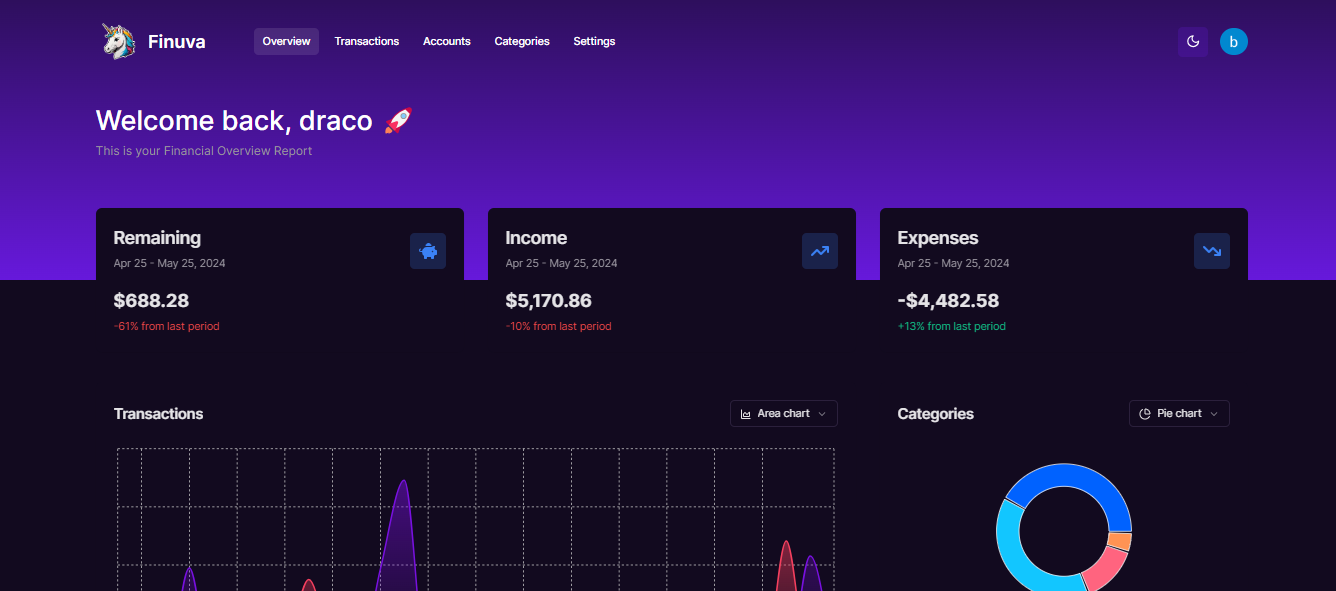
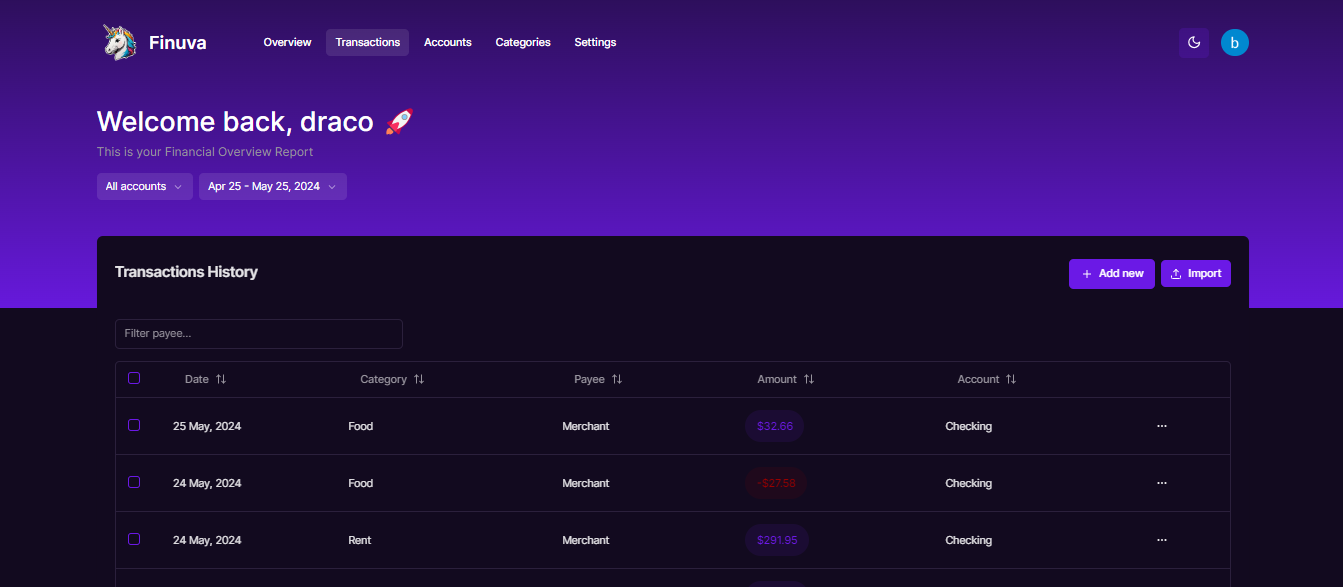
added filters

diff --git a/src/components/dashboard/date-filter.tsx b/src/components/dashboard/date-filter.tsx
@@ -1,0 +1,106 @@
+"use client"
+
+import qs from "query-string";
+import { useState } from "react";
+import { format, subDays } from "date-fns"
+import { DateRange } from "react-day-picker"
+import { Calendar as CalendarIcon, ChevronDown } from "lucide-react"
+import { usePathname, useRouter, useSearchParams } from "next/navigation";
+
+import { cn, formatDateRange } from "@/lib/utils"
+import { Button } from "@/components/ui/button"
+import { Calendar } from "@/components/ui/calendar"
+import { useGetSummary } from "@/features/summary/api/use-get-summary";
+import { Popover, PopoverContent, PopoverTrigger, PopoverClose } from "@/components/ui/popover";
+
+export const DateFilter = ({
+  className,
+}: React.HTMLAttributes<HTMLDivElement>) => {
+  const router = useRouter();
+  const pathname = usePathname();
+  const params = useSearchParams();
+  const { isLoading } = useGetSummary();
+
+  const defaultTo = new Date();
+  const defaultFrom = subDays(defaultTo, 30);
+
+  const from = params.get("from");
+  const to = params.get("to");
+
+  const paramState = {
+    from: from ? new Date(from) : defaultFrom,
+    to: to ? new Date(to) : defaultTo,
+  };
+
+  const [date, setDate] = useState<DateRange | undefined>(paramState);
+
+  // CHANGE URL PARAMS
+  const pushToUrl = (dateRange: DateRange | undefined) => {
+    const query = {
+      from: format(dateRange?.from || defaultFrom, "yyyy-MM-dd"),
+      to: format(dateRange?.to || defaultTo, "yyyy-MM-dd"),
+    };
+
+    const url = qs.stringifyUrl({
+      url: pathname,
+      query,
+    }, { skipNull: true });
+
+    router.push(url);
+  };
+
+  const onReset = () => {
+    setDate(undefined);
+    pushToUrl(undefined);
+  };
+
+  return (
+    <Popover>
+      <PopoverTrigger asChild>
+        <Button
+          disabled={isLoading}
+          size="sm"
+          variant="outline"
+          className={cn(
+            "w-full lg:w-auto justify-between font-normal bg-white/10 hover:bg-white/20 hover:text-white border-none focus-visible:ring-offset-0 focus-visible:ring-transparent outline-none text-white focus:bg-white/30 transition",
+          )}
+        >
+          <span>{formatDateRange(paramState)}</span>
+          <ChevronDown className="ml-2 size-4 opacity-50" />
+        </Button>
+      </PopoverTrigger>
+      <PopoverContent className="lg:w-auto w-full p-0" align="start">
+        <Calendar
+          disabled={isLoading}
+          initialFocus
+          mode="range"
+          defaultMonth={date?.from}
+          selected={date}
+          onSelect={setDate}
+          numberOfMonths={2}
+        />
+        <div className="p-4 w-full flex items-center gap-x-2">
+          <PopoverClose asChild>
+            <Button 
+              onClick={onReset} 
+              disabled={!date?.from || !date?.to} 
+              className="w-full"
+              variant="outline"
+            >
+              Reset
+            </Button>
+          </PopoverClose>
+          <PopoverClose asChild>
+            <Button
+              onClick={() => pushToUrl(date)} 
+              className="w-full"
+              disabled={!date?.from || !date?.to} 
+            >
+              Apply
+            </Button>
+          </PopoverClose>
+        </div>
+      </PopoverContent>
+    </Popover>
+  );
+};

diff --git a/src/components/dashboard/accunt-filter.tsx b/src/components/dashboard/accunt-filter.tsx
@@ -1,0 +1,57 @@
+"use client"
+
+import qs from "query-string";
+import { usePathname, useRouter, useSearchParams } from "next/navigation";
+
+import { useGetSummary } from "@/features/summary/api/use-get-summary";
+import { useGetAccounts } from "@/features/accounts/api/use-get-accounts";
+import { Select, SelectContent, SelectItem, SelectTrigger, SelectValue } from "@/components/ui/select";
+
+export const AccountFilter = ({ className }: React.HTMLAttributes<HTMLDivElement>) => {
+  const router = useRouter();
+  const pathname = usePathname();
+  const params = useSearchParams();
+  const { isLoading: isLoadingSummary } = useGetSummary();
+  const { data, isLoading: isLoadingAccounts } = useGetAccounts();
+
+  const accountId = params.get("accountId") || "all";
+  const from = params.get("from") || "";
+  const to = params.get("to") || "";
+
+  const onChange = (newValue: string) => {
+    const query = {
+      accountId: newValue,
+      from,
+      to,
+    };
+
+    if (newValue === "all") {
+      query.accountId = "";
+    }
+
+    const url = qs.stringifyUrl({
+      url: pathname,
+      query,
+    }, { skipNull: true, skipEmptyString: true });
+
+    router.push(url);
+  };
+
+  return (
+    <Select value={accountId} onValueChange={onChange} disabled={isLoadingAccounts || isLoadingSummary}>
+      <SelectTrigger className="lg:w-auto w-full h-9 rounded-md px-3 font-normal bg-white/10 hover:bg-white/20 hover:text-white border-none focus:ring-offset-0 focus:ring-transparent outline-none text-white focus:bg-white/30 transition">
+        <SelectValue placeholder="Account" />
+      </SelectTrigger>
+      <SelectContent>
+        <SelectItem value="all">
+          All accounts
+        </SelectItem>
+        {data?.map((account) => (
+          <SelectItem key={account.id} value={account.id}>
+            {account.name}
+          </SelectItem>
+        ))}
+      </SelectContent>
+    </Select>
+  );
+};

diff --git a/src/components/dashboard/data-charts.tsx b/src/components/dashboard/data-charts.tsx
@@ -1,7 +1,7 @@
 'use client'
 
 import { useGetSummary } from "@/features/summary/api/use-get-summary"
-import Chart from "./chart"
+import Chart, { ChartLoading } from "./chart"
 import { SpendingPie, SpendingPieLoading } from "./spending-pie"
 
 const DataCharts = () => {
@@ -10,7 +10,14 @@ const DataCharts = () => {
 
     if (isLoading) {
         return (
-            <SpendingPieLoading/>
+          <div className="grid grid-cols-1 lg:grid-cols-6 gap-8">
+           <div className="col-span-1 lg:col-span-3 xl:col-span-4">
+             <ChartLoading/>
+           </div>
+           <div className="col-span-1 lg:col-span-3 xl:col-span-2">
+             <SpendingPieLoading/>
+          </div>
+         </div>
         )
     }
 

diff --git a/src/components/ui/popover.tsx b/src/components/ui/popover.tsx
@@ -5,6 +5,8 @@ import * as PopoverPrimitive from "@radix-ui/react-popover"
 
 import { cn } from "@/lib/utils"
 
+const PopoverClose = PopoverPrimitive.Close
+
 const Popover = PopoverPrimitive.Root
 
 const PopoverTrigger = PopoverPrimitive.Trigger
@@ -28,4 +30,4 @@ const PopoverContent = React.forwardRef<
 ))
 PopoverContent.displayName = PopoverPrimitive.Content.displayName
 
-export { Popover, PopoverTrigger, PopoverContent }
+export { Popover, PopoverTrigger, PopoverContent, PopoverClose }

diff --git a/src/components/dashboard/header.tsx b/src/components/dashboard/header.tsx
@@ -5,6 +5,7 @@ import { ModeToggle } from "../global/theme-toggle"
 import { Button } from "../ui/button"
 import { Loader2Icon } from "lucide-react"
 import WelcomeMsg from "./welcome-msg"
+import { Filters } from "./filters"
 
 const Header = () => {
   return (
@@ -28,6 +29,7 @@ const Header = () => {
               </div>
            </div>
            <WelcomeMsg/>
+           <Filters/>
        </div>
     </header>
   )

diff --git a/src/components/dashboard/filters.tsx b/src/components/dashboard/filters.tsx
@@ -1,0 +1,11 @@
+import { AccountFilter } from './accunt-filter';
+import { DateFilter } from './date-filter';
+
+export const Filters = () => {
+  return (
+    <div className='flex flex-col lg:flex-row items-center gap-y-2 lg:gap-y-0 lg:gap-x-2'>
+      <AccountFilter/>
+      <DateFilter/>
+    </div>
+  );
+};

diff --git a/src/components/dashboard/data-grid.tsx b/src/components/dashboard/data-grid.tsx
@@ -13,6 +13,7 @@ const DataGrid = () => {
 
     const params = useSearchParams()
 
+    // SEE IF THERE ARE DATE FILTERS IN URL PARAMS
     const to = params.get('to') || undefined
     const from = params.get('from') || undefined
 

diff --git a/README.md b/README.md
@@ -1,6 +1,6 @@
 <a href="https://andromeda-pearl.vercel.app">
   <img src="/public/banner.png">
-  <h1 align="center">Finuva</h1>
+  <h1 align="center">Finuva 🦄</h1>
 </a>
 
 <p align="center">
@@ -20,6 +20,7 @@
 - 💼 DrizzleORM: Simplify database operations and interactions within the application.
 - 🔥 Hono: Ultrafast & Lightweight web framework
 - 🔑 Authentication using Clerk
+- 🌓 Light and Dark Mode: Customize your viewing experience with light and dark themes.
 
 ### Upload your transactions or manage them manually
 <img src="/public/banner2.png">
